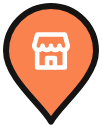
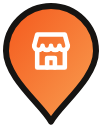
Petshop pin: fill it with the Ekle button's gradient
Owner, 2026-10-09: the flat orange read too dark on the map. The pin now
uses the brand gradient (#F4581C to #F9A052, 135 degrees) in both themes;
only its edge follows the ground. That makes it a fifth use of the
gradient, recorded in DESIGN.md, colors.ts and Gradient.tsx. PNGs
regenerated (the care PNGs are unchanged).

Claude-Session: https://claude.ai/code/session_012aBZeRRxzRkQuCQdJM67ji

Changed region(s): [[0.0882, 0.0714, 0.7941, 0.6905], [0.3529, 0.2857, 0.6176, 0.381], [0.3824, 0.4048, 0.5588, 0.5238]]

diff --git a/mobile/src/map/petshopMarker.ts b/mobile/src/map/petshopMarker.ts
@@ -1,6 +1,6 @@
 /**
- * The petshop marker (owner, 2026-10-07: petshops appear on the map): an
- * orange pin with a white storefront, so a shop never reads as a care record
+ * The petshop marker (owner, 2026-10-07: petshops appear on the map): a
+ * brand-gradient pin with a white storefront, so a shop never reads as a care record
  * (round, green ring) or an animal (an avatar in a white disc). It points at
  * its spot from above — the icon is anchored at the pin's tip.
  *
@@ -8,7 +8,8 @@
  * scripts/generate-care-markers.mjs (→ ./markers/) and web rasterises the
  * SVG at runtime; both use the same image key. Imported by web through the
  * `@mobile` alias without mobile's node_modules — no imports here.
- * The colors duplicate theme/colors.ts (`brand`, `surface`); the glyph
+ * The colors duplicate theme/colors.ts (`gradStart`/`gradEnd`, the dark
+ * `surface`); the glyph
  * paths are mirrored in components/brand/Icon (shop, phone, clock, link):
  * change one, change the other.
  */
@@ -52,9 +53,17 @@ export const PETSHOP_GLYPH_PATHS = {
   ],
 } as const;
 
-const PIN_COLORS: Record<PetshopTheme, { pin: string; edge: string; glyph: string }> = {
-  light: { pin: '#E05E2B', edge: '#FFFFFF', glyph: '#FFFFFF' },
-  dark: { pin: '#F9824E', edge: '#161412', glyph: '#FFFFFF' },
+/**
+ * The pin is filled with the brand gradient, the one on the "Ekle" button
+ * (owner, 2026-10-09: the flat orange read too dark on the map). The
+ * gradient keeps its colors in dark mode, as the button does; only the
+ * edge follows the ground.
+ */
+const PIN_GRADIENT = { start: '#F4581C', end: '#F9A052' };
+
+const PIN_COLORS: Record<PetshopTheme, { edge: string; glyph: string }> = {
+  light: { edge: '#FFFFFF', glyph: '#FFFFFF' },
+  dark: { edge: '#161412', glyph: '#FFFFFF' },
 };
 
 /** The image key both clients use in the symbol layer's icon-image. */
@@ -83,7 +92,12 @@ export function petshopMarkerSvg(theme: PetshopTheme): string {
   const glyph = PETSHOP_GLYPH_PATHS.shop.map((d) => `<path d="${d}"/>`).join('');
   return (
     `<svg xmlns="http://www.w3.org/2000/svg" width="${w}" height="${h}" viewBox="0 0 ${w} ${h}">` +
-    `<path d="${pin}" fill="${c.pin}" stroke="${c.edge}" stroke-width="2" stroke-linejoin="round"/>` +
+    // 135°, top-left to bottom-right, like components/brand/Gradient.
+    `<defs><linearGradient id="petshop-fill" x1="0" y1="0" x2="1" y2="1">` +
+    `<stop offset="0" stop-color="${PIN_GRADIENT.start}"/>` +
+    `<stop offset="1" stop-color="${PIN_GRADIENT.end}"/>` +
+    '</linearGradient></defs>' +
+    `<path d="${pin}" fill="url(#petshop-fill)" stroke="${c.edge}" stroke-width="2" stroke-linejoin="round"/>` +
     `<g transform="translate(${mid - offset} ${
       cy - offset
     }) scale(${GLYPH_SCALE})" fill="none" stroke="${

diff --git a/mobile/src/theme/colors.ts b/mobile/src/theme/colors.ts
@@ -3,9 +3,10 @@
  * (docs/design/studio-aesthetic-handoff.md).
  *
  * The discipline: screens are pure white, structure comes from **hairlines**
- * rather than stacked cards, and the orange **gradient** is reserved for four
- * places only — the logo, the primary button, the progress bar and the
- * selected chip. Everywhere else orange appears as the flat accent
+ * rather than stacked cards, and the orange **gradient** is reserved for five
+ * places only — the logo, the primary button, the progress bar, the
+ * selected chip and (owner, 2026-10-09) the petshop map pin, whose
+ * pre-rendered SVG in map/petshopMarker.ts repeats these two stops. Everywhere else orange appears as the flat accent
  * (`brand`, #E05E2B): links, active icons, micro labels.
  *
  * The dark theme is not in the handoff; it is derived here as a warm-charcoal
@@ -16,7 +17,7 @@
  * `useTheme()` or `makeStyles((t) => ...)`.
  */
 export const lightPalette = {
-  // The gradient — forbidden outside its four uses. `gradStart`/`gradEnd`
+  // The gradient — forbidden outside its five uses. `gradStart`/`gradEnd`
   // feed the SVG gradient in components/brand/Gradient.
   gradStart: '#F4581C',
   gradEnd: '#F9A052',

diff --git a/mobile/__tests__/petshopMarker.test.ts b/mobile/__tests__/petshopMarker.test.ts
@@ -31,8 +31,14 @@ describe('the petshop marker images', () => {
     );
   });
 
-  it('are the brand orange, not the care green', () => {
-    expect(petshopMarkerSvg('light')).toContain('#E05E2B');
-    expect(petshopMarkerSvg('light')).not.toContain('#34A853');
+  it('are filled with the Ekle button gradient in both themes, not the care green', () => {
+    for (const theme of PETSHOP_THEMES) {
+      const svg = petshopMarkerSvg(theme);
+      expect(svg).toMatch(/<linearGradient id="petshop-fill"[^>]*x2="1" y2="1"/);
+      expect(svg).toContain('stop-color="#F4581C"');
+      expect(svg).toContain('stop-color="#F9A052"');
+      expect(svg).toContain('fill="url(#petshop-fill)"');
+      expect(svg).not.toContain('#34A853');
+    }
   });
 });

diff --git a/mobile/src/components/brand/Gradient.tsx b/mobile/src/components/brand/Gradient.tsx
@@ -20,8 +20,9 @@ type Props = {
  * dependency, so the gradient is an absolutely positioned SVG rectangle
  * behind the content.
  *
- * Use it in the four places the handoff allows — the logo, the primary
- * button, the progress bar and the selected chip — and nowhere else.
+ * Use it in the places the handoff allows — the logo, the primary button,
+ * the progress bar and the selected chip — and nowhere else. The fifth use,
+ * the petshop map pin, is a pre-rendered image (map/petshopMarker.ts).
  */
 export default function Gradient({ radius = 18, direction = 'diagonal', style }: Props) {
   const { colors } = useTheme();

diff --git a/docs/DESIGN.md b/docs/DESIGN.md
@@ -8,8 +8,9 @@ screen files.** Everything comes from `mobile/src/theme/`.
 
 > All three clients (mobile, web PWA, admin excepted) follow the **studio
 > aesthetic**: pure-white surfaces, hairline borders, Quicksand, and the
-> gradient reserved for four uses (logo, primary button, progress bar,
-> selected chip). The source of truth is
+> gradient reserved for five uses (logo, primary button, progress bar,
+> selected chip, and the petshop map pin, which the owner added on
+> 2026-10-09). The source of truth is
 > `docs/design/studio-aesthetic-handoff.md`; this document describes how the
 > mobile theme system implements it.
 
@@ -23,7 +24,7 @@ token names.
 
 | Token | Light | Dark | Where |
 | --- | --- | --- | --- |
-| `gradStart` → `gradEnd` | `#F4581C` → `#F9A052` | same | The gradient — ONLY logo, primary button, progress bar, selected chip |
+| `gradStart` → `gradEnd` | `#F4581C` → `#F9A052` | same | The gradient — ONLY logo, primary button, progress bar, selected chip, petshop map pin (`map/petshopMarker.ts`, owner 2026-10-09) |
 | `brand` | `#E05E2B` | `#F9824E` | Flat accent: links, active icons, micro labels |
 | `brandDark` | `#C94F20` | `#E0693A` | Pressed states |
 | `brandSoft` / `brandTint` | `#FFE9DA` / `#FFF3EA` | `#47301F` / `#33241A` | Accent as light/dark surface |
